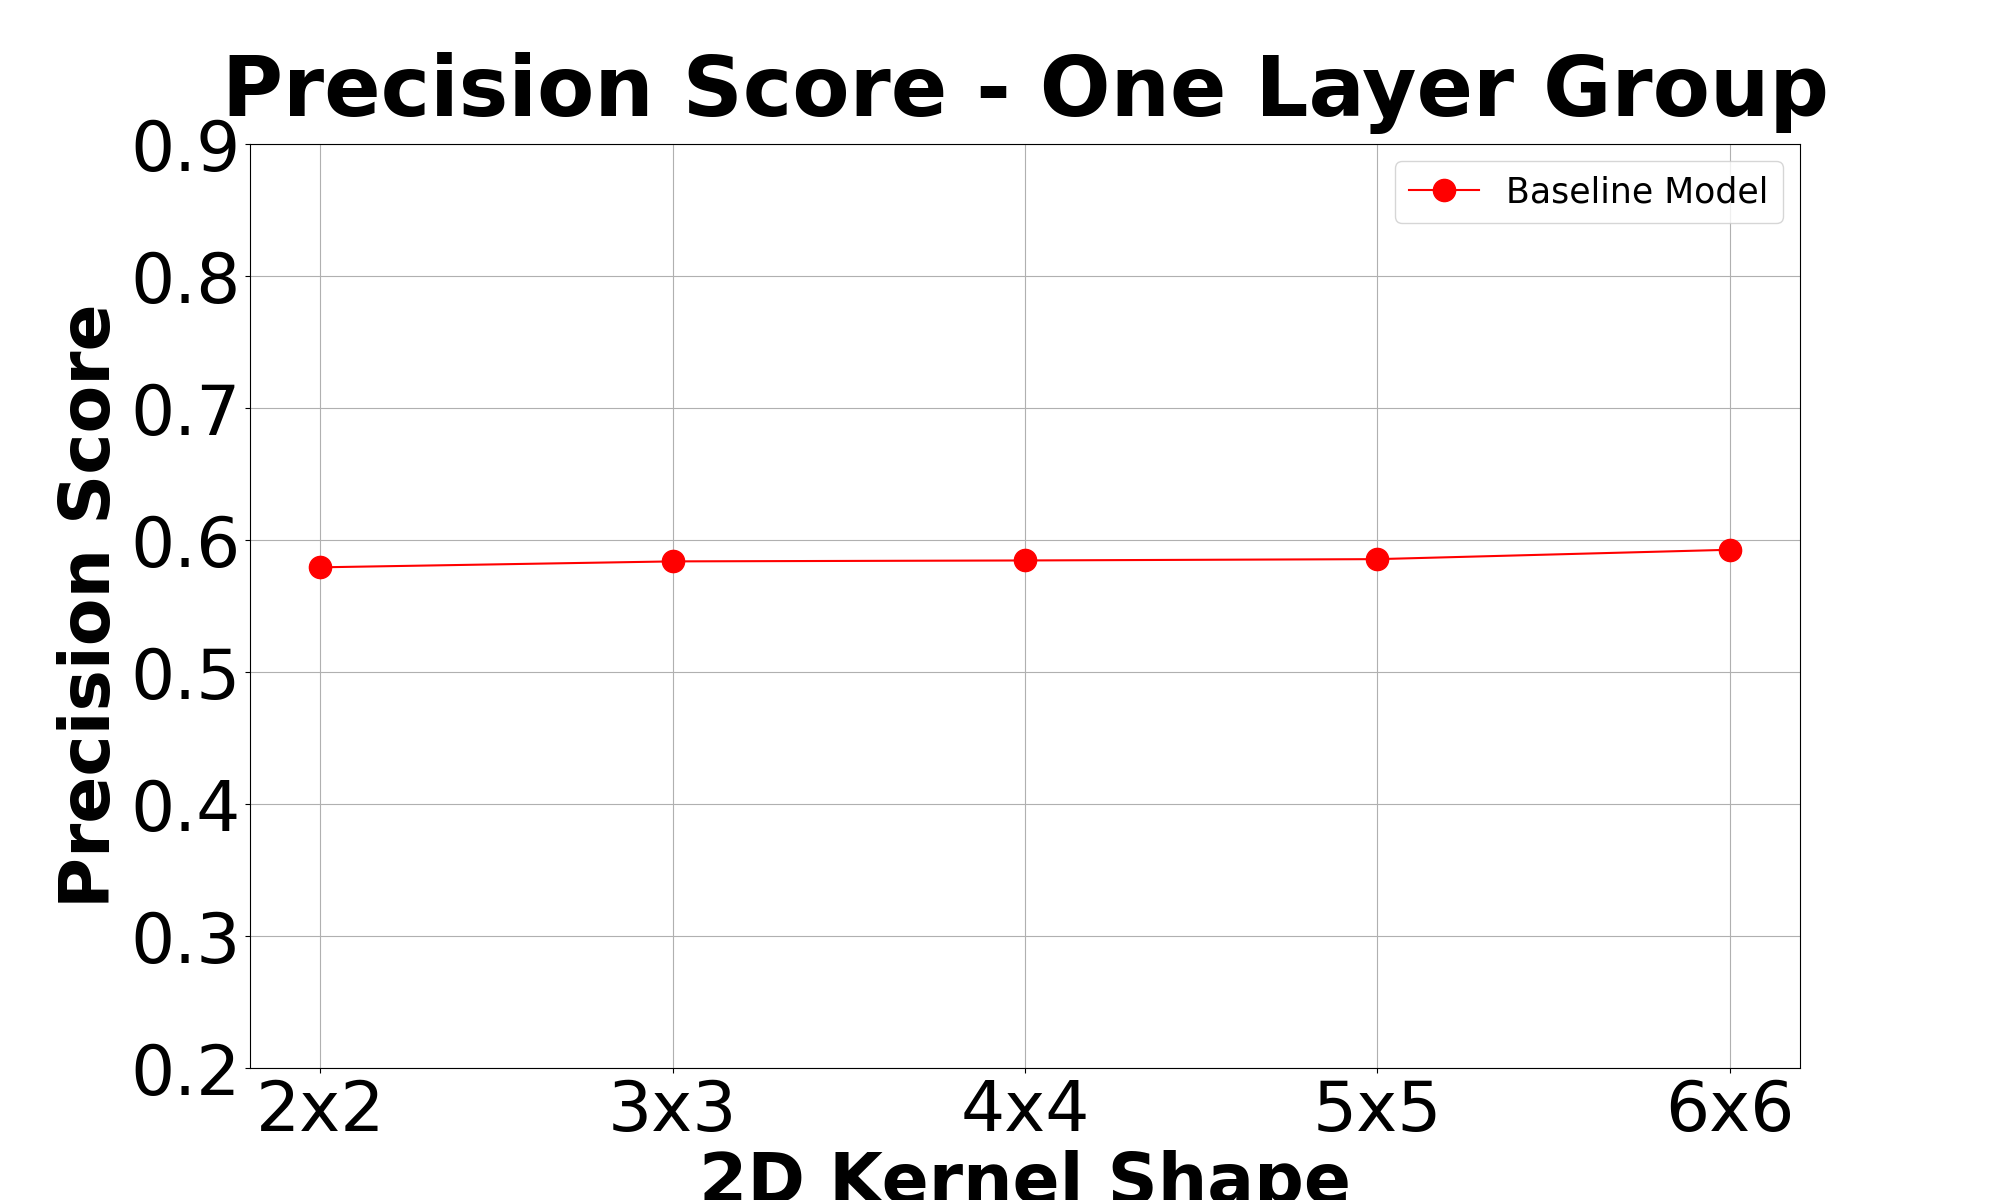
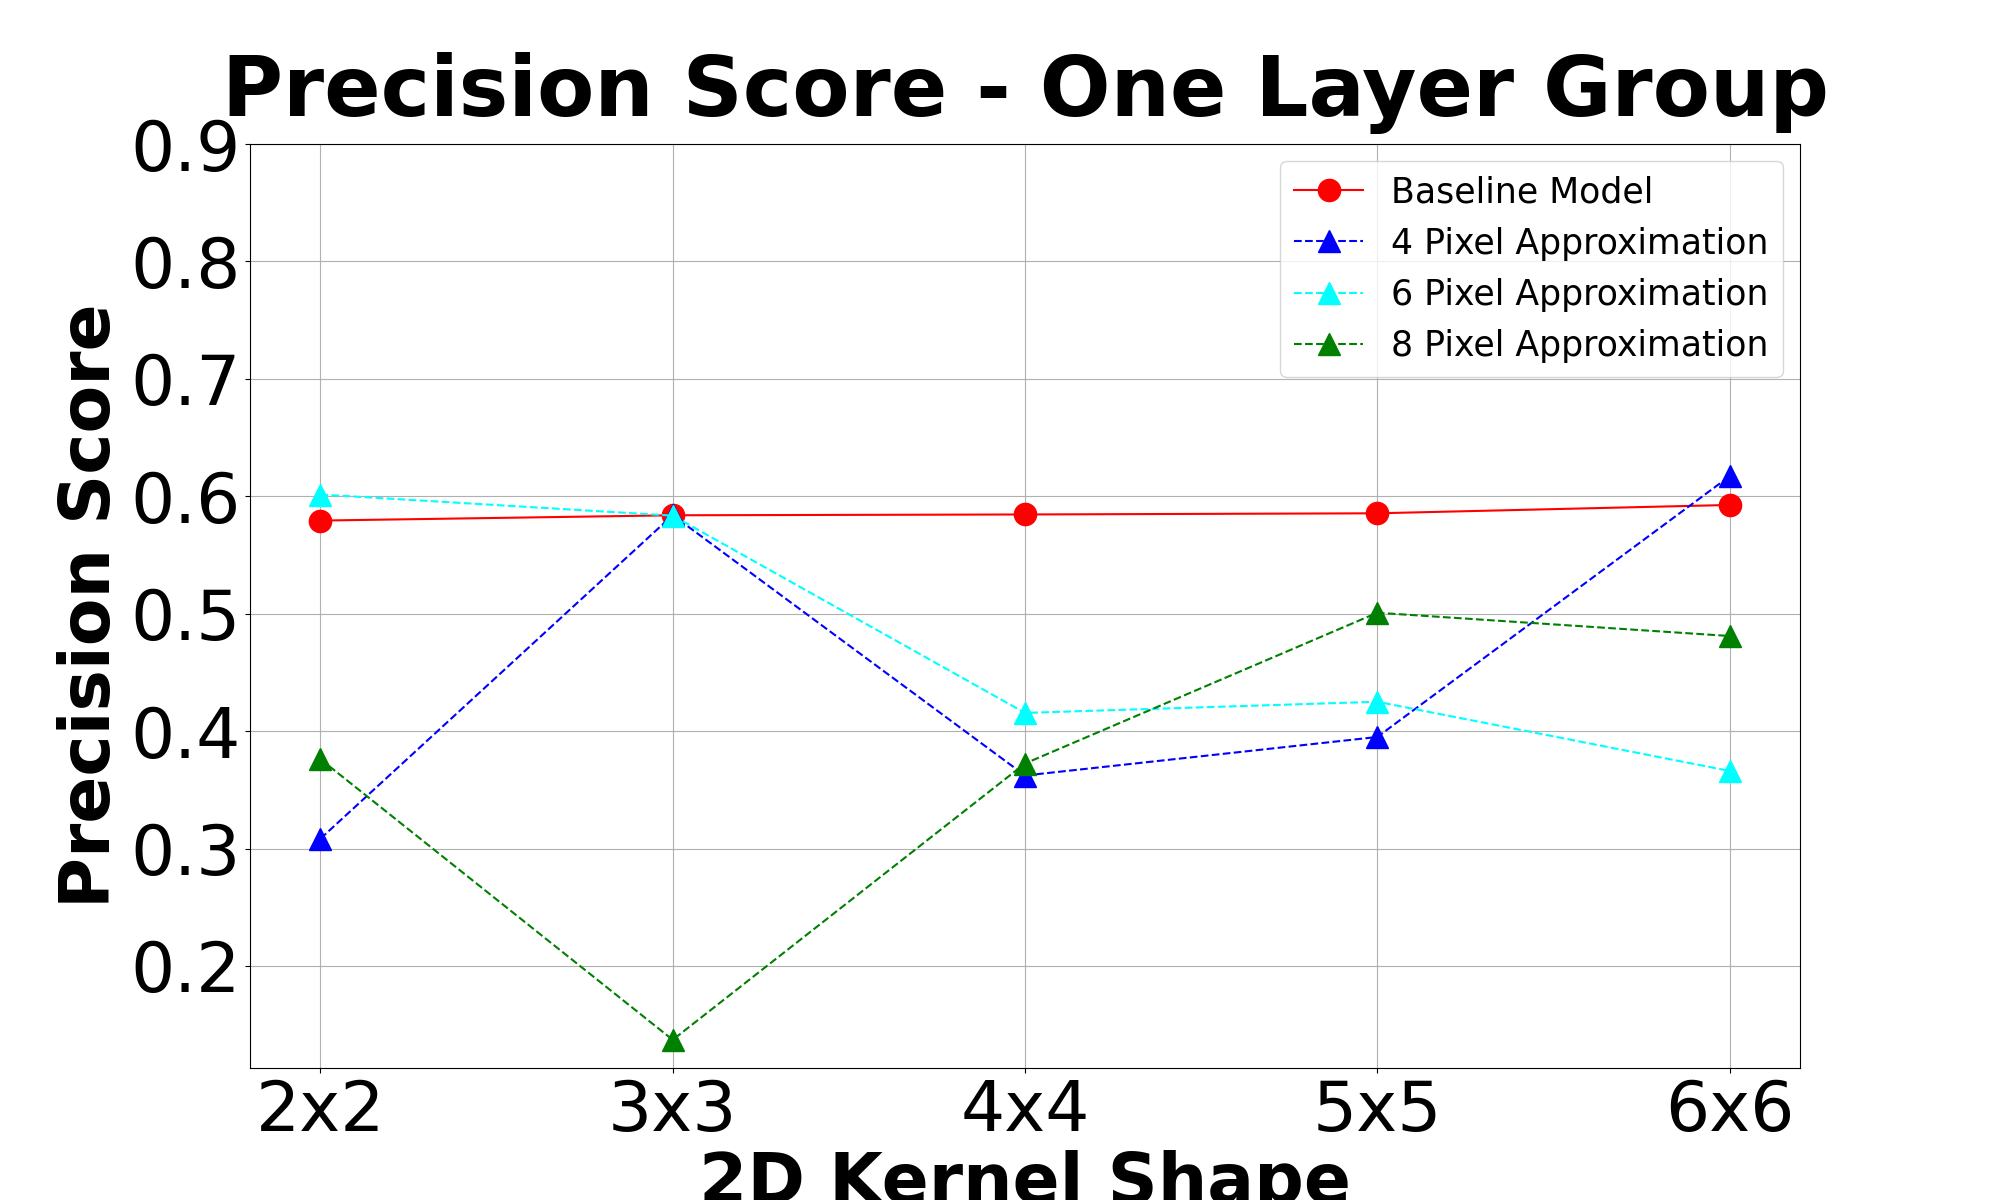
18 July 2020
- Ran New Approximation models
- Need to adjust compensation layers
- Clean up "beta" trigger condition???

diff --git a/Error-Compensation-Attacks/Error-Compensation-Attacks_v1/ERR_COMP_v1_Utilities.py b/Error-Compensation-Attacks/Error-Compensation-Attacks_v1/ERR_COMP_v1_Utilities.py
@@ -26,8 +26,8 @@ N_layer_models = {'Single_Layer':   [(2,),(3,),(4,),(5,),(6,)],
 dataframe_cols = ['Model','Average Loss','Average Precision','Average Recall','Average Train Time']
 
 #approx_index = np.concatenate((np.arange(0,6),np.arange(26,32)),axis=-1)
-approx_index = np.arange(0,8)
-outfile_name = 'Approx8.csv'
+approx_index = np.arange(0,4)
+outfile_name = 'Approx4.csv'
 
 output_path = 'C:\\Users\\Landon\\Documents\\GitHub\Convolutional-Neural-Networks\\' + \
                 'Error-Compensation-Attacks\\Raw_Data_v1'
@@ -53,7 +53,7 @@ class ApproximationLayer (keras.layers.Layer):
         W[32-self.rows[-1]:32-self.rows[0]] = 0    # remove bottom rows
         W[:,self.rows[0]:self.rows[-1]] = 0          # remove top rows
         W[:,32-self.rows[-1]:32-self.rows[0]] = 0    # remove bottom rows
-        W = tf.Variable(W,trainable=False,dtype='int32')
+        W = tf.Variable(W,trainable=False,dtype='float32')
         return W
         
     def call (self,X):
@@ -112,7 +112,7 @@ def Network_Model (name,kernel_sizes,rows,cols):
     model = keras.models.Sequential(name=name)
     model.add(keras.layers.InputLayer(input_shape=(32,32,3),name='Input'))
 
-    #model.add(ApproximationLayer(rows=rows,cols=cols,name='Approx'))
+    model.add(ApproximationLayer(rows=rows,cols=cols,name='Approx'))
     #model.add(CompensationLayer(rows=rows,cols=cols,name='Comp'))
 
     # Each Layer Group

diff --git a/Error-Compensation-Attacks/Error-Compensation-Analysis/ERR_COMP_VIS_MAIN.py b/Error-Compensation-Attacks/Error-Compensation-Analysis/ERR_COMP_VIS_MAIN.py
@@ -22,9 +22,8 @@ if __name__ == '__main__':
     data_path = 'C:/Users/Landon/Documents/GitHub/Convolutional-Neural-Networks/Error-Compensation-Attacks/Raw_Data_v1'
     expt_path = 'C:/Users/Landon/Documents/GitHub/Convolutional-Neural-Networks/Presentations/Error-Comp-Attacks-v1'
 
-    CSV_FILES = [   'Baseline.csv',
-                 #'Approx_2.csv','Approx_4.csv','Approx_6.csv','Approx_8.csv',
-                 #'Comp_2.csv','Comp_4.csv','Comp_6.csv','Comp_8.csv'
+    CSV_FILES = [   'Baseline.csv','Approx4.csv','Approx6.csv','Approx8.csv'
+                 
                  ]
 
     files_objs = []
@@ -36,10 +35,9 @@ if __name__ == '__main__':
     os.chdir(expt_path)
 
     labs=[  'Baseline Model',
-          #'2 Pixel Approximation','4 Pixel Approximation',
-          #'6 Pixel Approximation','8 Pixel Approximation',
-          #'2 Pixel Compensation', '4 Pixel Compensation',
-          #'6 Pixel Compensation', '8 Pixel Compensation'
+          '4 Pixel Approximation',
+          '6 Pixel Approximation',
+          '8 Pixel Approximation'
           ]
 
     # Loss Function values

diff --git a/Error-Compensation-Attacks/Error-Compensation-Analysis/ERR_COMP_VIS_Utilities.py b/Error-Compensation-Attacks/Error-Compensation-Analysis/ERR_COMP_VIS_Utilities.py
@@ -122,9 +122,9 @@ def Plot_Metric (objs=[],attrbs='',metric='',ylab='',labs=[],title='',save=False
     data = np.array([x.__getattribute__(attrbs)[metric] for x in objs])
     plt.plot(kernel_sides,data[0],color='red',linestyle='-',marker='o',ms=16,label=labs[0])
 
-    #plt.plot(kernel_sides,data[1],color='blue',linestyle='--',marker='^',ms=16,label=labs[1])
-    #plt.plot(kernel_sides,data[2],color='cyan',linestyle='--',marker='^',ms=16,label=labs[2])
-    #plt.plot(kernel_sides,data[3],color='green',linestyle='--',marker='^',ms=16,label=labs[3])
+    plt.plot(kernel_sides,data[1],color='blue',linestyle='--',marker='^',ms=16,label=labs[1])
+    plt.plot(kernel_sides,data[2],color='cyan',linestyle='--',marker='^',ms=16,label=labs[2])
+    plt.plot(kernel_sides,data[3],color='green',linestyle='--',marker='^',ms=16,label=labs[3])
     #plt.plot(kernel_sides,data[4],color='purple',linestyle='--',marker='^',ms=16,label=labs[4])
 
     #plt.plot(kernel_sides,data[5],color='gray',linestyle='-.',marker='s',ms=16,label=labs[5])

diff --git a/Error-Compensation-Attacks/Error-Compensation-Attacks_v1/ERR_COMP_v1_MAIN.py b/Error-Compensation-Attacks/Error-Compensation-Attacks_v1/ERR_COMP_v1_MAIN.py
@@ -21,8 +21,7 @@ import ERR_COMP_v1_Utilities as utils
             #### MAIN EXECUABLE ####
 
 if __name__ == '__main__':
-
-       
+      
         # PRE-PROCESSING 
         init_path = os.getcwd()
         X_train,y_train,X_test,y_test = utils.Load_CIFAR10()
